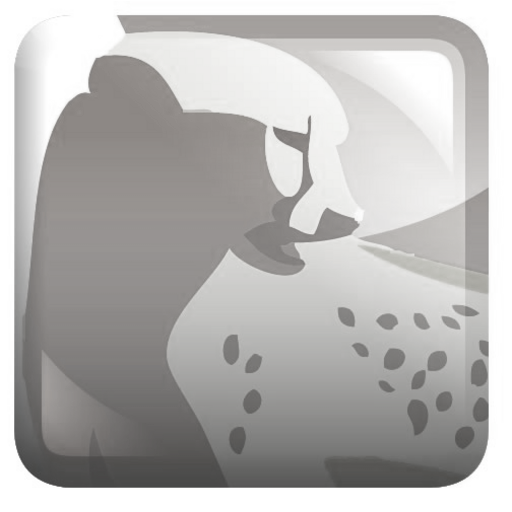
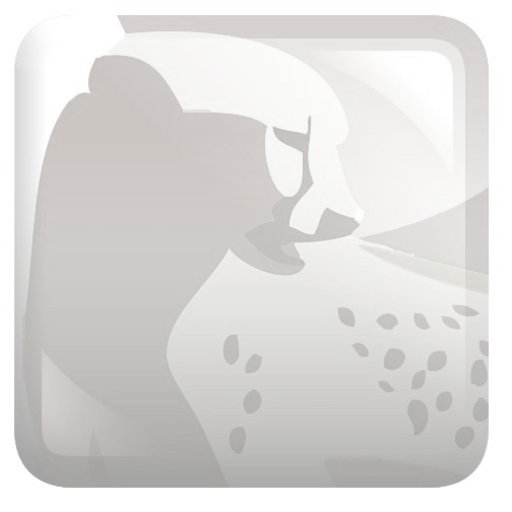
BlankState: Minor cosmetics
.. changed the image to be fainter and smaller
.. the text to be larger and bolder

diff --git a/src/GoldenCheetah.cpp b/src/GoldenCheetah.cpp
@@ -743,10 +743,14 @@ GcChartWindow::GcChartWindow(QWidget *parent) : GcWindow(parent) {
     blankImg->setSizePolicy(QSizePolicy::MinimumExpanding,QSizePolicy::MinimumExpanding);
 
     blankImg->setIcon(QPixmap(":/images/gc-blank.png"));
-    blankImg->setIconSize(QSize(300,300)); //512
+    blankImg->setIconSize(QSize(200,200)); //512
 
     QLabel *blankLabel = new QLabel(tr("No data available"));
     blankLabel->setAlignment(Qt::AlignCenter);
+    QFont font;
+    font.setPointSize(font.pointSize() + 4);
+    font.setWeight(QFont::Bold);
+    blankLabel->setFont(font);
 
     _defaultBlankLayout->addStretch();
     _defaultBlankLayout->addWidget(blankImg);
